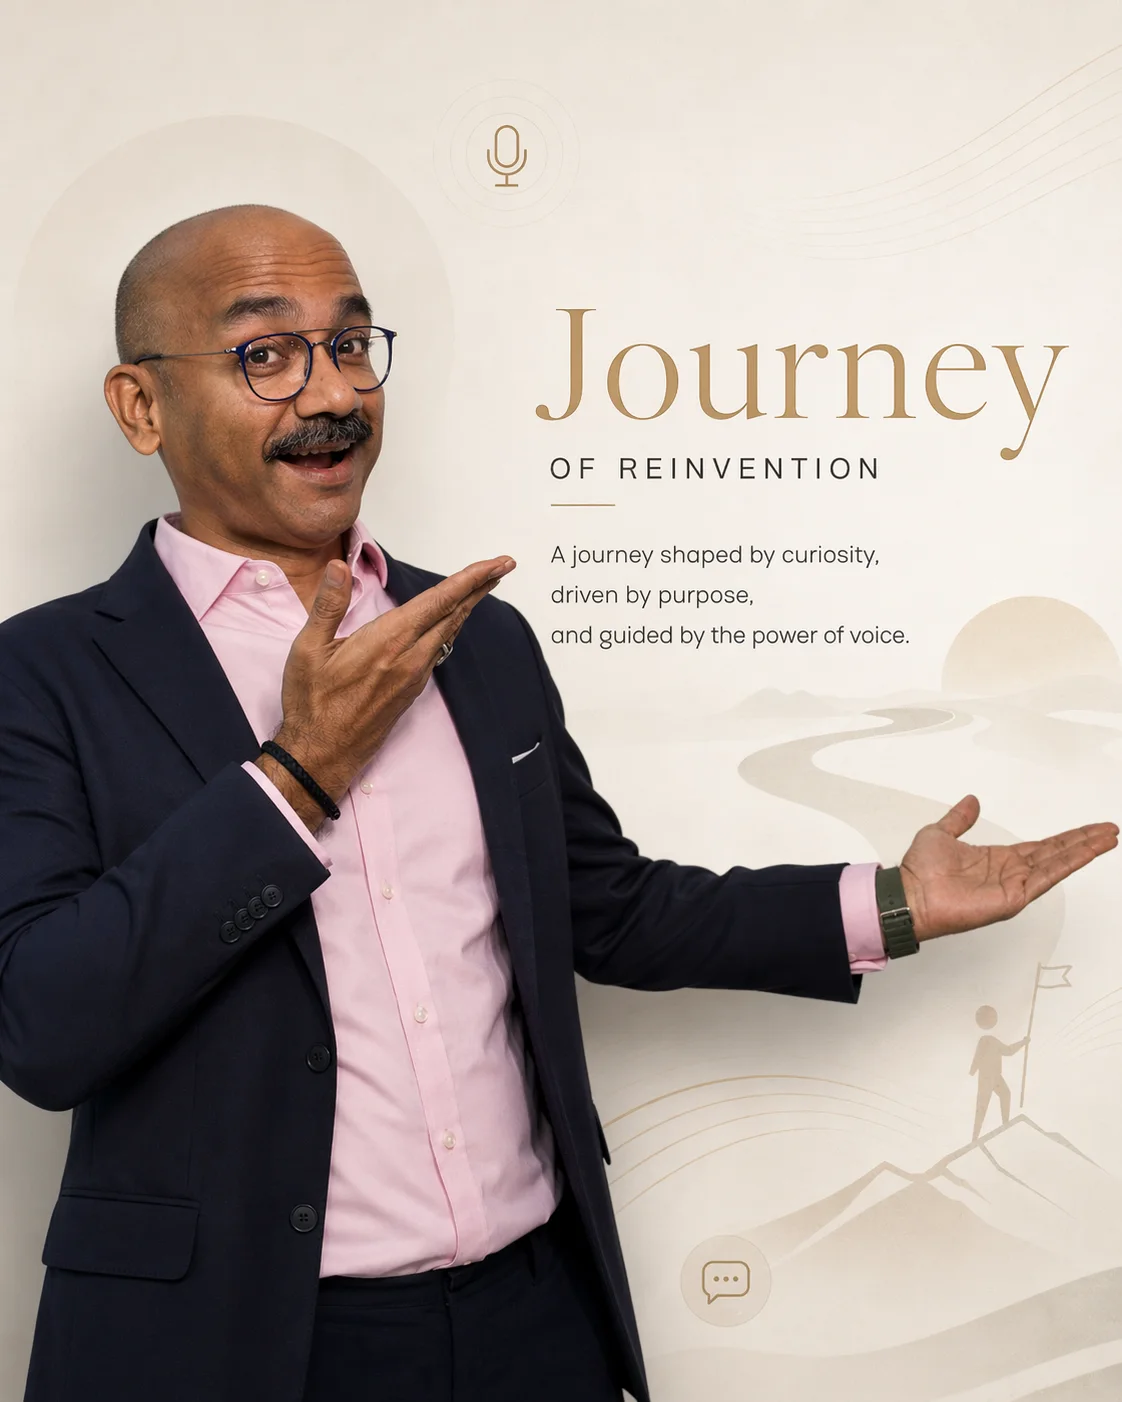
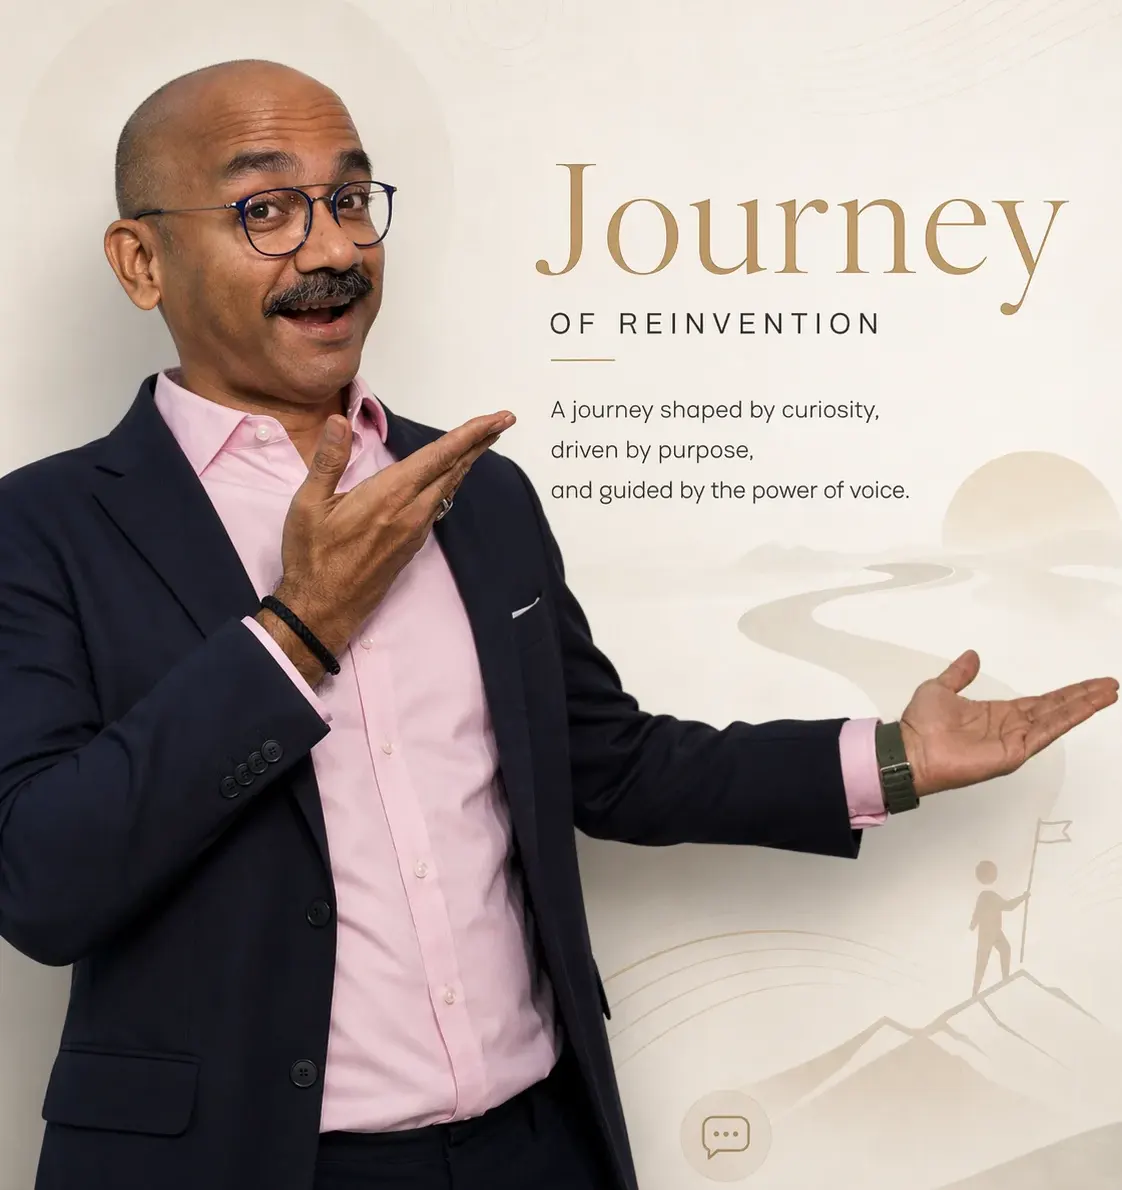
Add files via upload

diff --git a/assets/css/styles.css b/assets/css/styles.css
@@ -465,23 +465,149 @@ textarea {
   color: var(--gold-light);
   font-family: Playfair Display, Georgia, serif;
   font-size: 24px;
+  margin: 0 0 8px;
 }
 .resource-card p {
   color: #fff;
   opacity: 0.8;
+  margin: 0;
+}
+
+.resource-card {
+  cursor: pointer;
+  transition: transform 0.3s ease;
+  border: 1px solid #eee;
+  padding: 15px;
+}
+
+.resource-card:hover {
+  transform: translateY(-5px);
+  box-shadow: 0 10px 20px rgba(0,0,0,0.1);
+}
+
+.image-box {
+  width: 100%;
+  height: 180px;
+  background-size: cover;
+  background-position: center;
+  margin-bottom: 15px;
+  border-radius: 4px;
+  background-color: #f4f4f4;
+}
+
+/* Ensure the modal handles images well */
+.image-display {
+  max-width: 100%;
+  max-height: 90vh;
+  display: flex;
+  align-items: center;
+  justify-content: center;
+}
+
+/* The Button Styling */
+.read-more-btn {
+  display: inline-block;
+  padding: 10px 15px;
+  background-color: var(--gold);
+  color: #fff !important;
+  text-decoration: none;
+  border-radius: 4px;
+  font-size: 0.9rem;
+  font-weight: 600;
+  text-align: center;
+  transition: background 0.2s;
+  margin: 14px 0 10px;
+}
+
+.read-more-btn:hover {
+  background-color: #e6bd70;
+  color: #fff;
+}
+
+
+/* Keep your existing .video-card and .video-thumb styles */
+.video-card { cursor: pointer; transition: transform 0.2s; }
+.video-card:hover { transform: scale(1.02); }
+
+/* Modal Styles */
+.video-modal {
+  display: none; /* Hidden by default */
+  position: fixed;
+  z-index: 1000;
+  left: 0;
+  top: 0;
+  width: 100%;
+  height: 100%;
+  background-color: rgba(0, 0, 0, 0.95);
+  align-items: center;
+  justify-content: center;
+}
+
+.modal-content {
+  width: 80%;
+  max-width: 1000px;
+  aspect-ratio: 16 / 9;
+}
+
+.modal-content video {
+  width: 100%;
+  height: 100%;
+  border-radius: 10px;
+  margin: auto;
+  box-shadow: 0 0 30px rgba(0,0,0,0.5);
+}
+
+.close-modal {
+  position: absolute;
+  top: 30px;
+  right: 40px;
+  color: #fff;
+  font-size: 50px;
+  font-weight: bold;
+  cursor: pointer;
+  z-index: 1001;
 }
 
 .video-thumb {
   height: 160px;
   border-radius: 9px;
-  background: linear-gradient(135deg, #1b1b1b, #5d3b13);
+  background-size: cover;
+  background-position: center;
+  background-repeat: no-repeat;
+  position: relative;
   display: flex;
   align-items: center;
   justify-content: center;
-  color: var(--gold-light);
+  color: #fff;
   font-size: 2.8rem;
   margin-bottom: 12px;
+  overflow: hidden;
+  z-index: 1;
 }
+
+
+.video-thumb::before {
+  content: "";
+  position: absolute;
+  top: 0;
+  left: 0;
+  width: 100%;
+  height: 100%;
+  background: rgba(0, 0, 0, 0.4);
+  z-index: -1; 
+  transition: background 0.3s ease;
+}
+
+.video-card:hover .video-thumb::before {
+  background: rgba(0, 0, 0, 0.2);
+}
+
+.video-card:hover .video-thumb {
+  transform: scale(1.03);
+  transition: transform 0.3s ease;
+}
+
+
 
 .video-card h3 {
   color: var(--gold-light);
